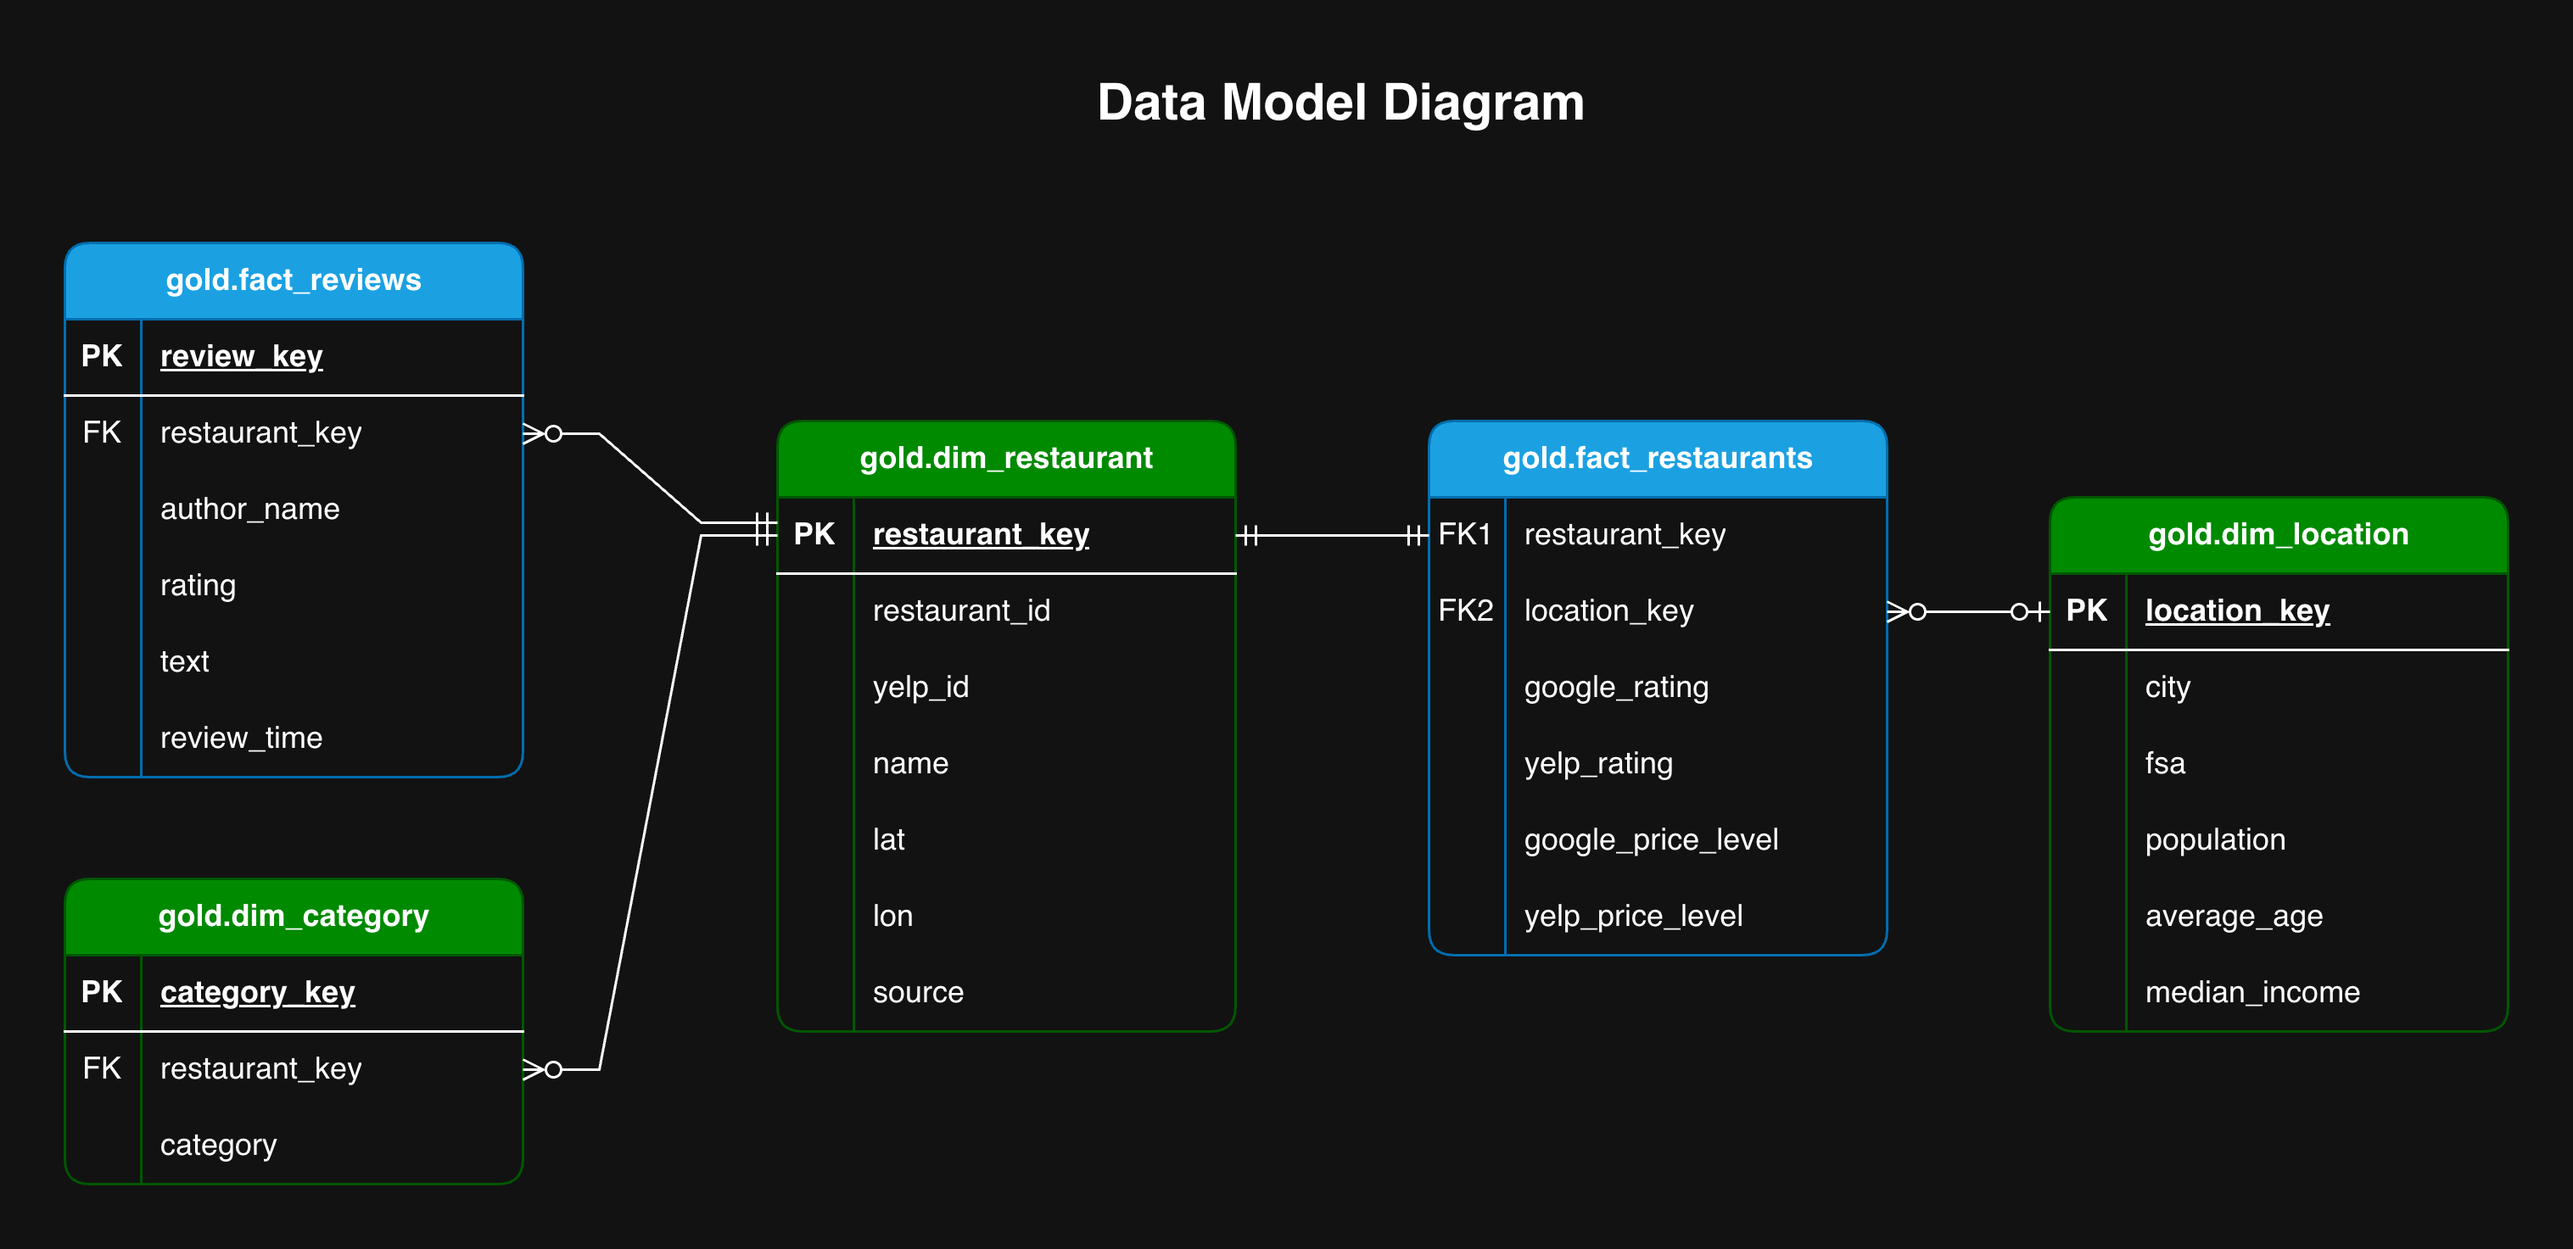
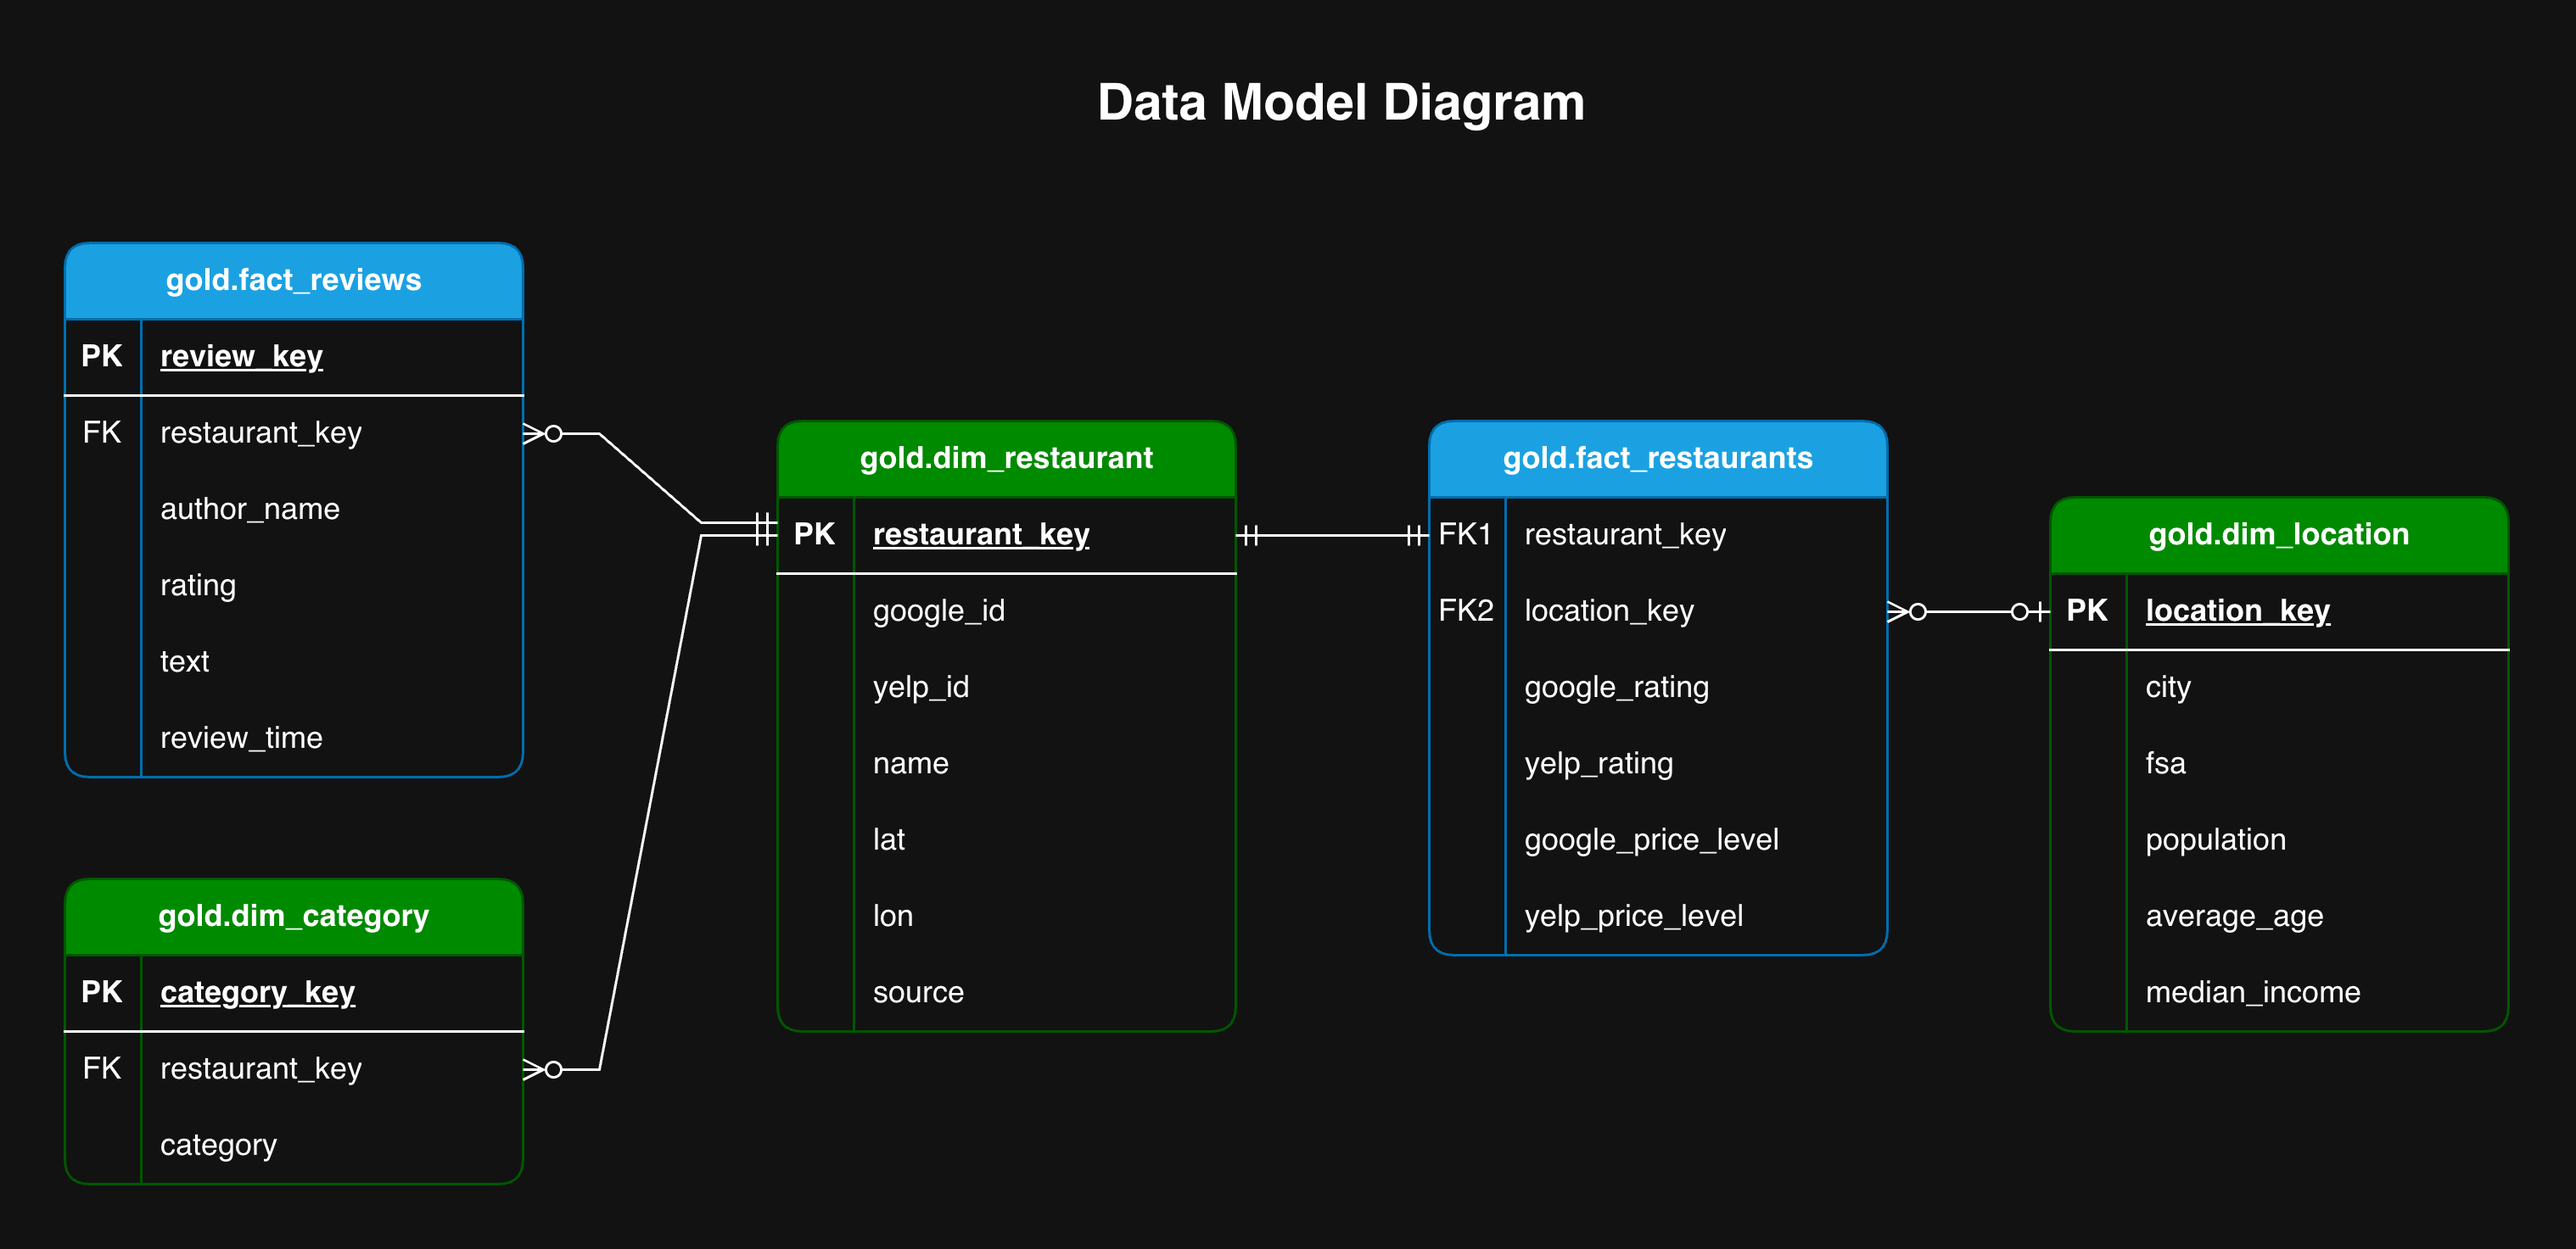
Update docs, start ddl_gold

diff --git a/docs/data_catalog.md b/docs/data_catalog.md
@@ -12,8 +12,8 @@ The Gold Layer is the business-level data representation, structured to support 
 | Column Name    | Data Type     | Description                                                                                   |
 |----------------|---------------|-----------------------------------------------------------------------------------------------|
 | restaurant_key | INT           | Surrogate key uniquely identifying each restaurant record in the dimension table.             |
-| restaurant_id  | NVARCHAR(255) | Google Places API identifier for the restaurant. NULL for Yelp-only records.                 |
-| yelp_id        | NVARCHAR(255) | Yelp Fusion API identifier for the restaurant. NULL for Google-only records.                 |
+| google_id      | NVARCHAR(50)  | Google Places API identifier for the restaurant. NULL for Yelp-only records.                 |
+| yelp_id        | NVARCHAR(50)  | Yelp Fusion API identifier for the restaurant. NULL for Google-only records.                 |
 | name           | NVARCHAR(255) | The name of the restaurant as returned by the source API.                                    |
 | lat            | DECIMAL(9,6)  | Latitude coordinate of the restaurant location.                                              |
 | lon            | DECIMAL(9,6)  | Longitude coordinate of the restaurant location.                                             |
@@ -58,8 +58,8 @@ The Gold Layer is the business-level data representation, structured to support 
 | location_key        | INT           | Surrogate key linking the record to the location dimension table. NULL if FSA is unavailable.|
 | google_rating       | DECIMAL(3,2)  | Average customer rating from Google Places API (1.0 - 5.0). NULL for Yelp-only records.     |
 | yelp_rating         | DECIMAL(3,2)  | Average customer rating from Yelp Fusion API (1.0 - 5.0). NULL for Google-only records.     |
-| google_price_level  | NVARCHAR(10)  | Price level from Google Places API ($, $$, $$$, $$$$, N/A). NULL for Yelp-only records.     |
-| yelp_price_level    | NVARCHAR(10)  | Price level from Yelp Fusion API ($, $$, $$$, $$$$). NULL for Google-only records.          |
+| google_price_level  | NVARCHAR(5)   | Price level from Google Places API ($, $$, $$$, $$$$, N/A). NULL for Yelp-only records.     |
+| yelp_price_level    | NVARCHAR(5)   | Price level from Yelp Fusion API ($, $$, $$$, $$$$). NULL for Google-only records.          |
 
 ---
 
